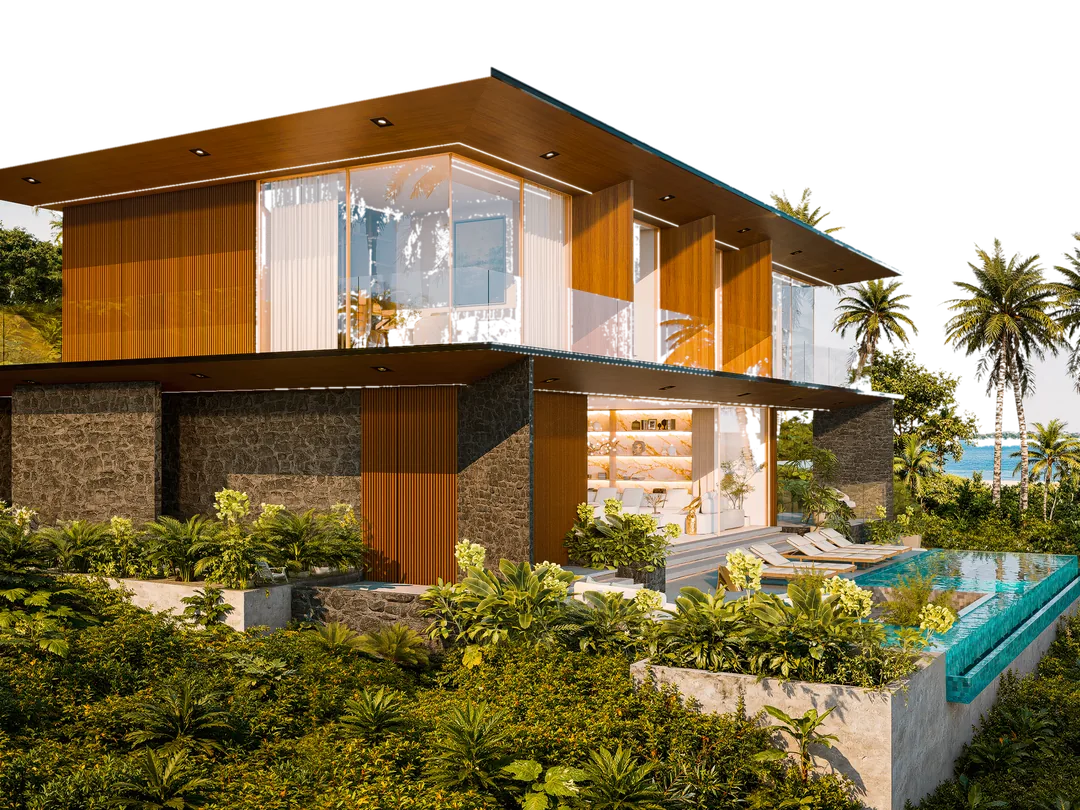
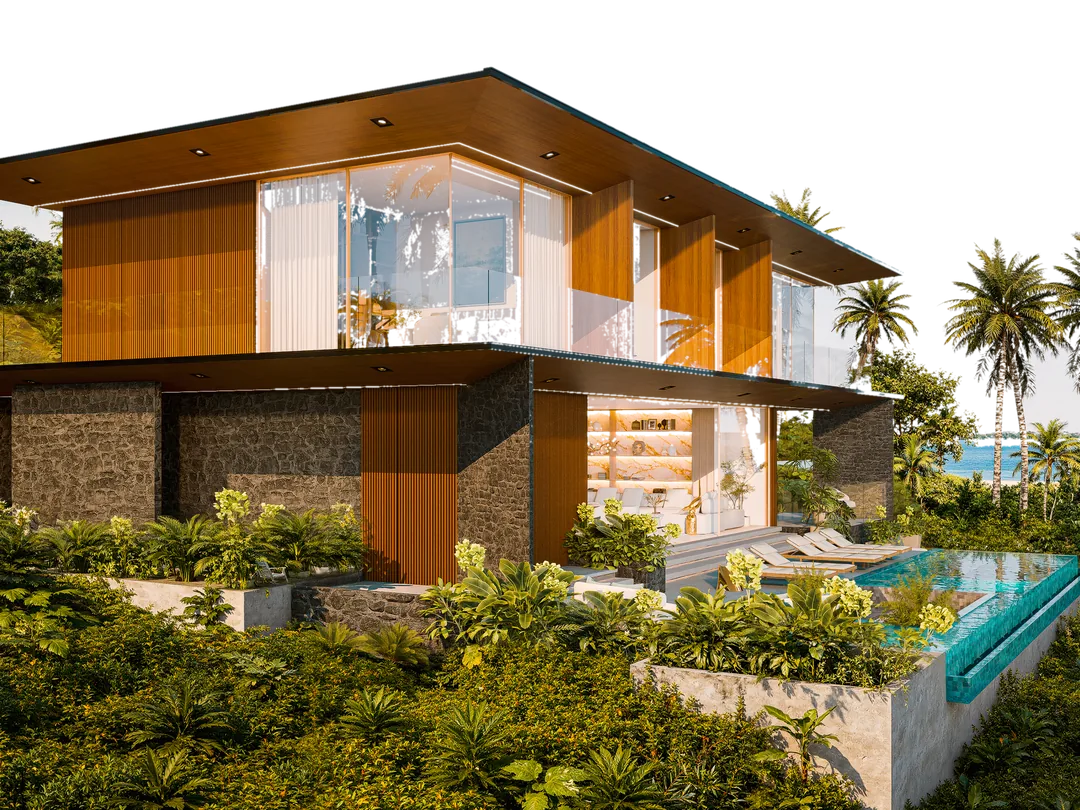
fix(home): el corte del bloque de cita sigue exactamente el borde del tejado
La recta del corte iba 15-30 px por debajo del borde y se comía la
fascia. Ahora se ajusta por mínimos cuadrados sobre el tramo sin
palmeras (y = 335 − 0,177·x, fascia de 20 px) y va 3-5 px por dentro
de la fascia: alero entero y sin pelusa de frondas encima.

Changed region(s): [[0.0, 0.0617, 0.4583, 0.216]]

diff --git a/scripts/quote-sin-cielo.py b/scripts/quote-sin-cielo.py
@@ -12,9 +12,11 @@ entre fondo e imagen. Aquí se hace lo mismo con el render de Villa Cosón:
      cristales (encerrados por la carpintería) y las cortinas no lo tocan.
   3. Las palmeras de arriba a la izquierda salían cortadas por el borde
      del render (y con huecos de cielo entre las frondas): se quitan con un
-     corte en ángulo que sigue la línea del tejado —de (0, 366) al vértice
-     (1066, 165) a 2350 px, unos 13 px por dentro de la fascia para que no
-     quede ningún resto—. Las palmeras de la derecha se conservan; sus
+     corte en ángulo que sigue la línea del tejado: recta ajustada por
+     mínimos cuadrados sobre el tramo sin palmeras (y = 335 − 0,177·x a
+     2350 px; fascia de 20 px), trazada 3 px por dentro de la fascia —de
+     (0, 343) al vértice (1050, 152); el extremo izquierdo va 5 px más adentro porque el borde real se curva un poco hacia arriba—: invisible sobre 20 px de fascia y
+     sin pelusa de frondas por encima. Las palmeras de la derecha se conservan; sus
      huecos de cielo (componentes azules pequeñas de la mitad superior) se
      vacían también.
   4. El cielo se encoge 1 px para comerse el halo azul de las frondas y el
@@ -65,7 +67,7 @@ def main():
     # corte en ángulo por encima del tejado: fuera las palmeras cortadas
     W, H = im.size
     poli = Image.new('L', (W, H), 0)
-    ImageDraw.Draw(poli).polygon([(0, 0), (0, round(366 * W / 2350)), (round(1066 * W / 2350), round(165 * W / 2350)), (round(1066 * W / 2350), 0)], fill=255)
+    ImageDraw.Draw(poli).polygon([(0, 0), (0, round(343 * W / 2350)), (round(1050 * W / 2350), round(152 * W / 2350)), (round(1050 * W / 2350), 0)], fill=255)
     cielo |= np.asarray(poli) > 0
     cielo = ndimage.binary_dilation(cielo, iterations=1)   # come el halo azul de los bordes
     alfa = ndimage.gaussian_filter(np.where(cielo, 0.0, 255.0), 1.2)
